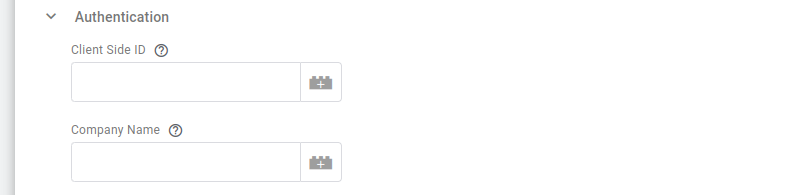
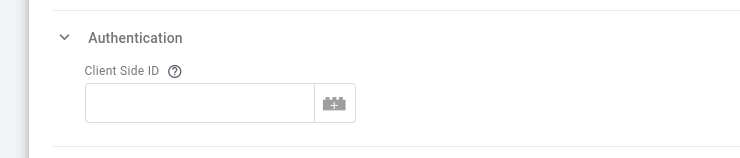
Update docs for gtm-ss LaunchDarkly tag 0.2.0

diff --git a/docs/destinations/forwarding-events/google-tag-manager-server-side/launchdarkly-tag-for-gtm-ss/launchdarkly-tag-configuration/index.md b/docs/destinations/forwarding-events/google-tag-manager-server-side/launchdarkly-tag-for-gtm-ss/launchdarkly-tag-configuration/index.md
@@ -26,10 +26,6 @@ This section allows you to select the Metric Type for this Tag. The options are:
 
 In this text box you need to provide the [LaunchDarkly client-side ID](https://docs.launchdarkly.com/sdk/concepts/client-side-server-side#client-side-id) for the environment your metric events pertain to.
 
-### Company Name (Required)
-
-In this text box you need to provide the company name, which is used to help LaunchDarkly identify the source of traffic and debug issues.
-
 ## Metric Options
 
 ![](images/03-metric-options.png)
@@ -99,7 +95,7 @@ This configuration section allows you to define the version to be used. For exam
 As an example using the default version, the User-Agent header could be like:
 
 ```
-'User-Agent: MetricImport-CompanyName-int/1'
+'User-Agent: MetricImport-Snowplow-int/1'
 ```
 
 ## Logs Settings
